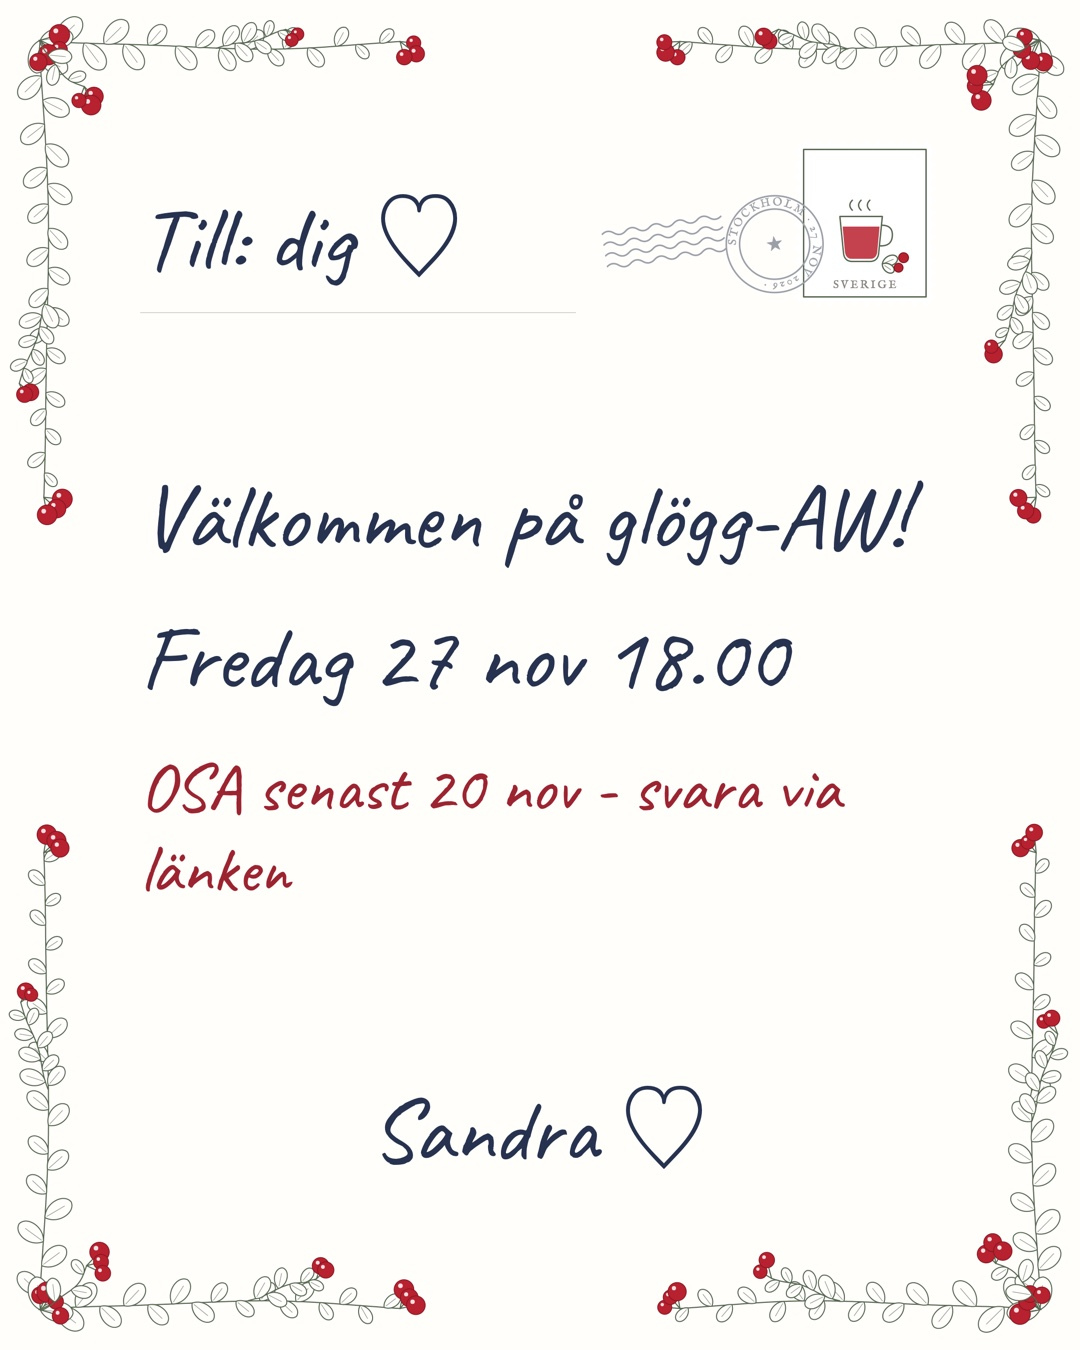
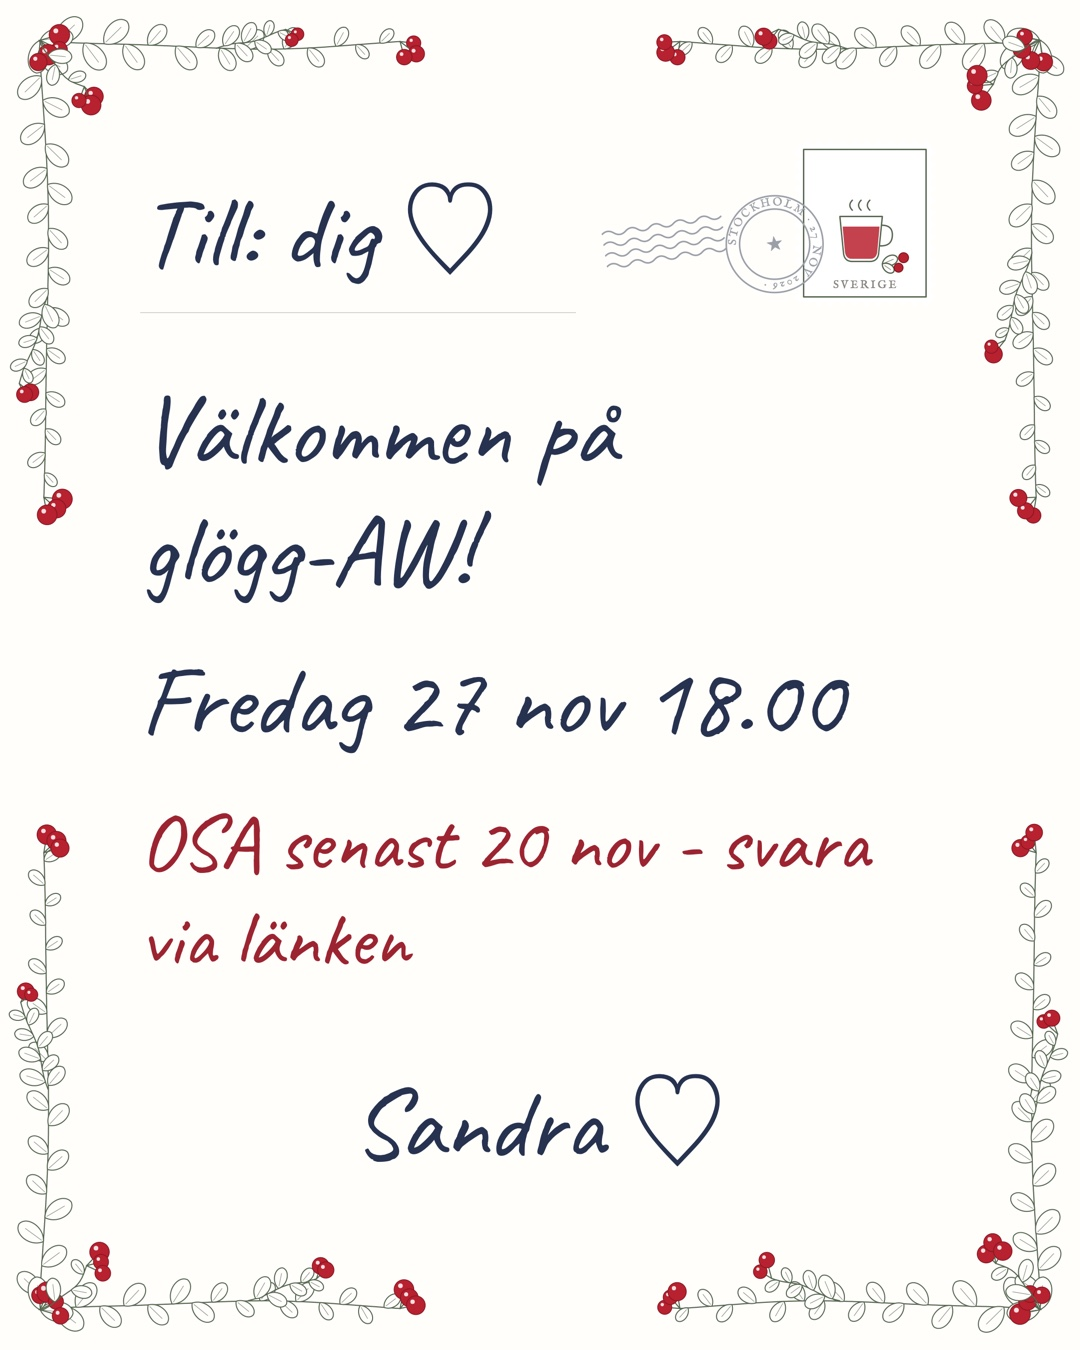
Bigger card text; caption is just Klicka för att OSA + link

Changed region(s): [[0.1222, 0.28, 0.8556, 0.7156], [0.3361, 0.7778, 0.6722, 0.8711], [0.1528, 0.1244, 0.4583, 0.2178]]

diff --git a/card.html b/card.html
@@ -16,12 +16,13 @@
   .post { display: flex; align-items: flex-start; flex: none; }
   .post .postmark { width: 230px; height: 121px; margin: 58px -46px 0 0; transform: rotate(-9deg); position: relative; z-index: 1; }
   .post .stamp { width: 150px; height: 178px; }
-  .line { font-size: 90px; padding-bottom: 10px; border-bottom: 1px solid var(--rule); }
+  .line { font-size: 100px; padding-bottom: 10px; border-bottom: 1px solid var(--rule); }
   .top .line { flex: 1; }
   .from { text-align: center; border-bottom: 0; }
-  .msg { font-size: 92px; line-height: 1.2; margin: auto 0; }
+  .msg { font-size: 100px; line-height: 1.2; margin: auto 0; }
   .msg .when { margin-top: 30px; }
-  .msg .osa { margin-top: 34px; font-size: 68px; color: var(--berry-ink); }
+  .nw { white-space: nowrap; }
+  .msg .osa { margin-top: 34px; font-size: 80px; color: var(--berry-ink); }
 </style>
 </head>
 <body>
@@ -29,7 +30,7 @@
 <script src="lingon.js"></script>
 <script>
   const T = {
-    sv: { to: 'Till: dig ♡', msg: 'Välkommen på glögg-AW!', when: 'Fredag 27 nov 18.00',
+    sv: { to: 'Till: dig ♡', msg: 'Välkommen på <span class="nw">glögg-AW!</span>', when: 'Fredag 27 nov 18.00',
           osa: 'OSA senast 20 nov - svara via länken', from: 'Sandra ♡' },
     en: { to: 'To: you ♡', msg: 'Welcome to glögg after work!', when: 'Friday 27 Nov 6 pm',
           osa: 'RSVP by 20 Nov - reply via the link', from: 'Sandra ♡' },

diff --git a/t/sandra-stmfy/index.html b/t/sandra-stmfy/index.html
@@ -8,7 +8,7 @@
 <meta property="og:type" content="website">
 <meta property="og:title" content="Glögg efter jobbet 🍷">
 <meta property="og:description" content="Fredag 27 november – tryck här för att svara">
-<meta property="og:image" content="https://sandragrennard-hash.github.io/glogg/t/sandra-stmfy/card.jpg?v=1793714965">
+<meta property="og:image" content="https://sandragrennard-hash.github.io/glogg/t/sandra-stmfy/card.jpg?v=1793715204">
 <meta property="og:image:width" content="1080">
 <meta property="og:image:height" content="1350">
 <meta name="twitter:card" content="summary_large_image">

diff --git a/index.html b/index.html
@@ -8,7 +8,7 @@
 <meta property="og:type" content="website">
 <meta property="og:title" content="Glögg efter jobbet 🍷">
 <meta property="og:description" content="Fredag 27 november – tryck här för att svara">
-<meta property="og:image" content="https://sandragrennard-hash.github.io/glogg/card-sv.jpg?v=10">
+<meta property="og:image" content="https://sandragrennard-hash.github.io/glogg/card-sv.jpg?v=11">
 <meta property="og:image:width" content="1080">
 <meta property="og:image:height" content="1350">
 <meta name="twitter:card" content="summary_large_image">

diff --git a/en/index.html b/en/index.html
@@ -8,7 +8,7 @@
 <meta property="og:type" content="website">
 <meta property="og:title" content="Glögg after work 🍷">
 <meta property="og:description" content="Friday 27 November – tap here to reply">
-<meta property="og:image" content="https://sandragrennard-hash.github.io/glogg/card-en.jpg?v=10">
+<meta property="og:image" content="https://sandragrennard-hash.github.io/glogg/card-en.jpg?v=11">
 <meta property="og:image:width" content="1080">
 <meta property="og:image:height" content="1350">
 <meta name="twitter:card" content="summary_large_image">
